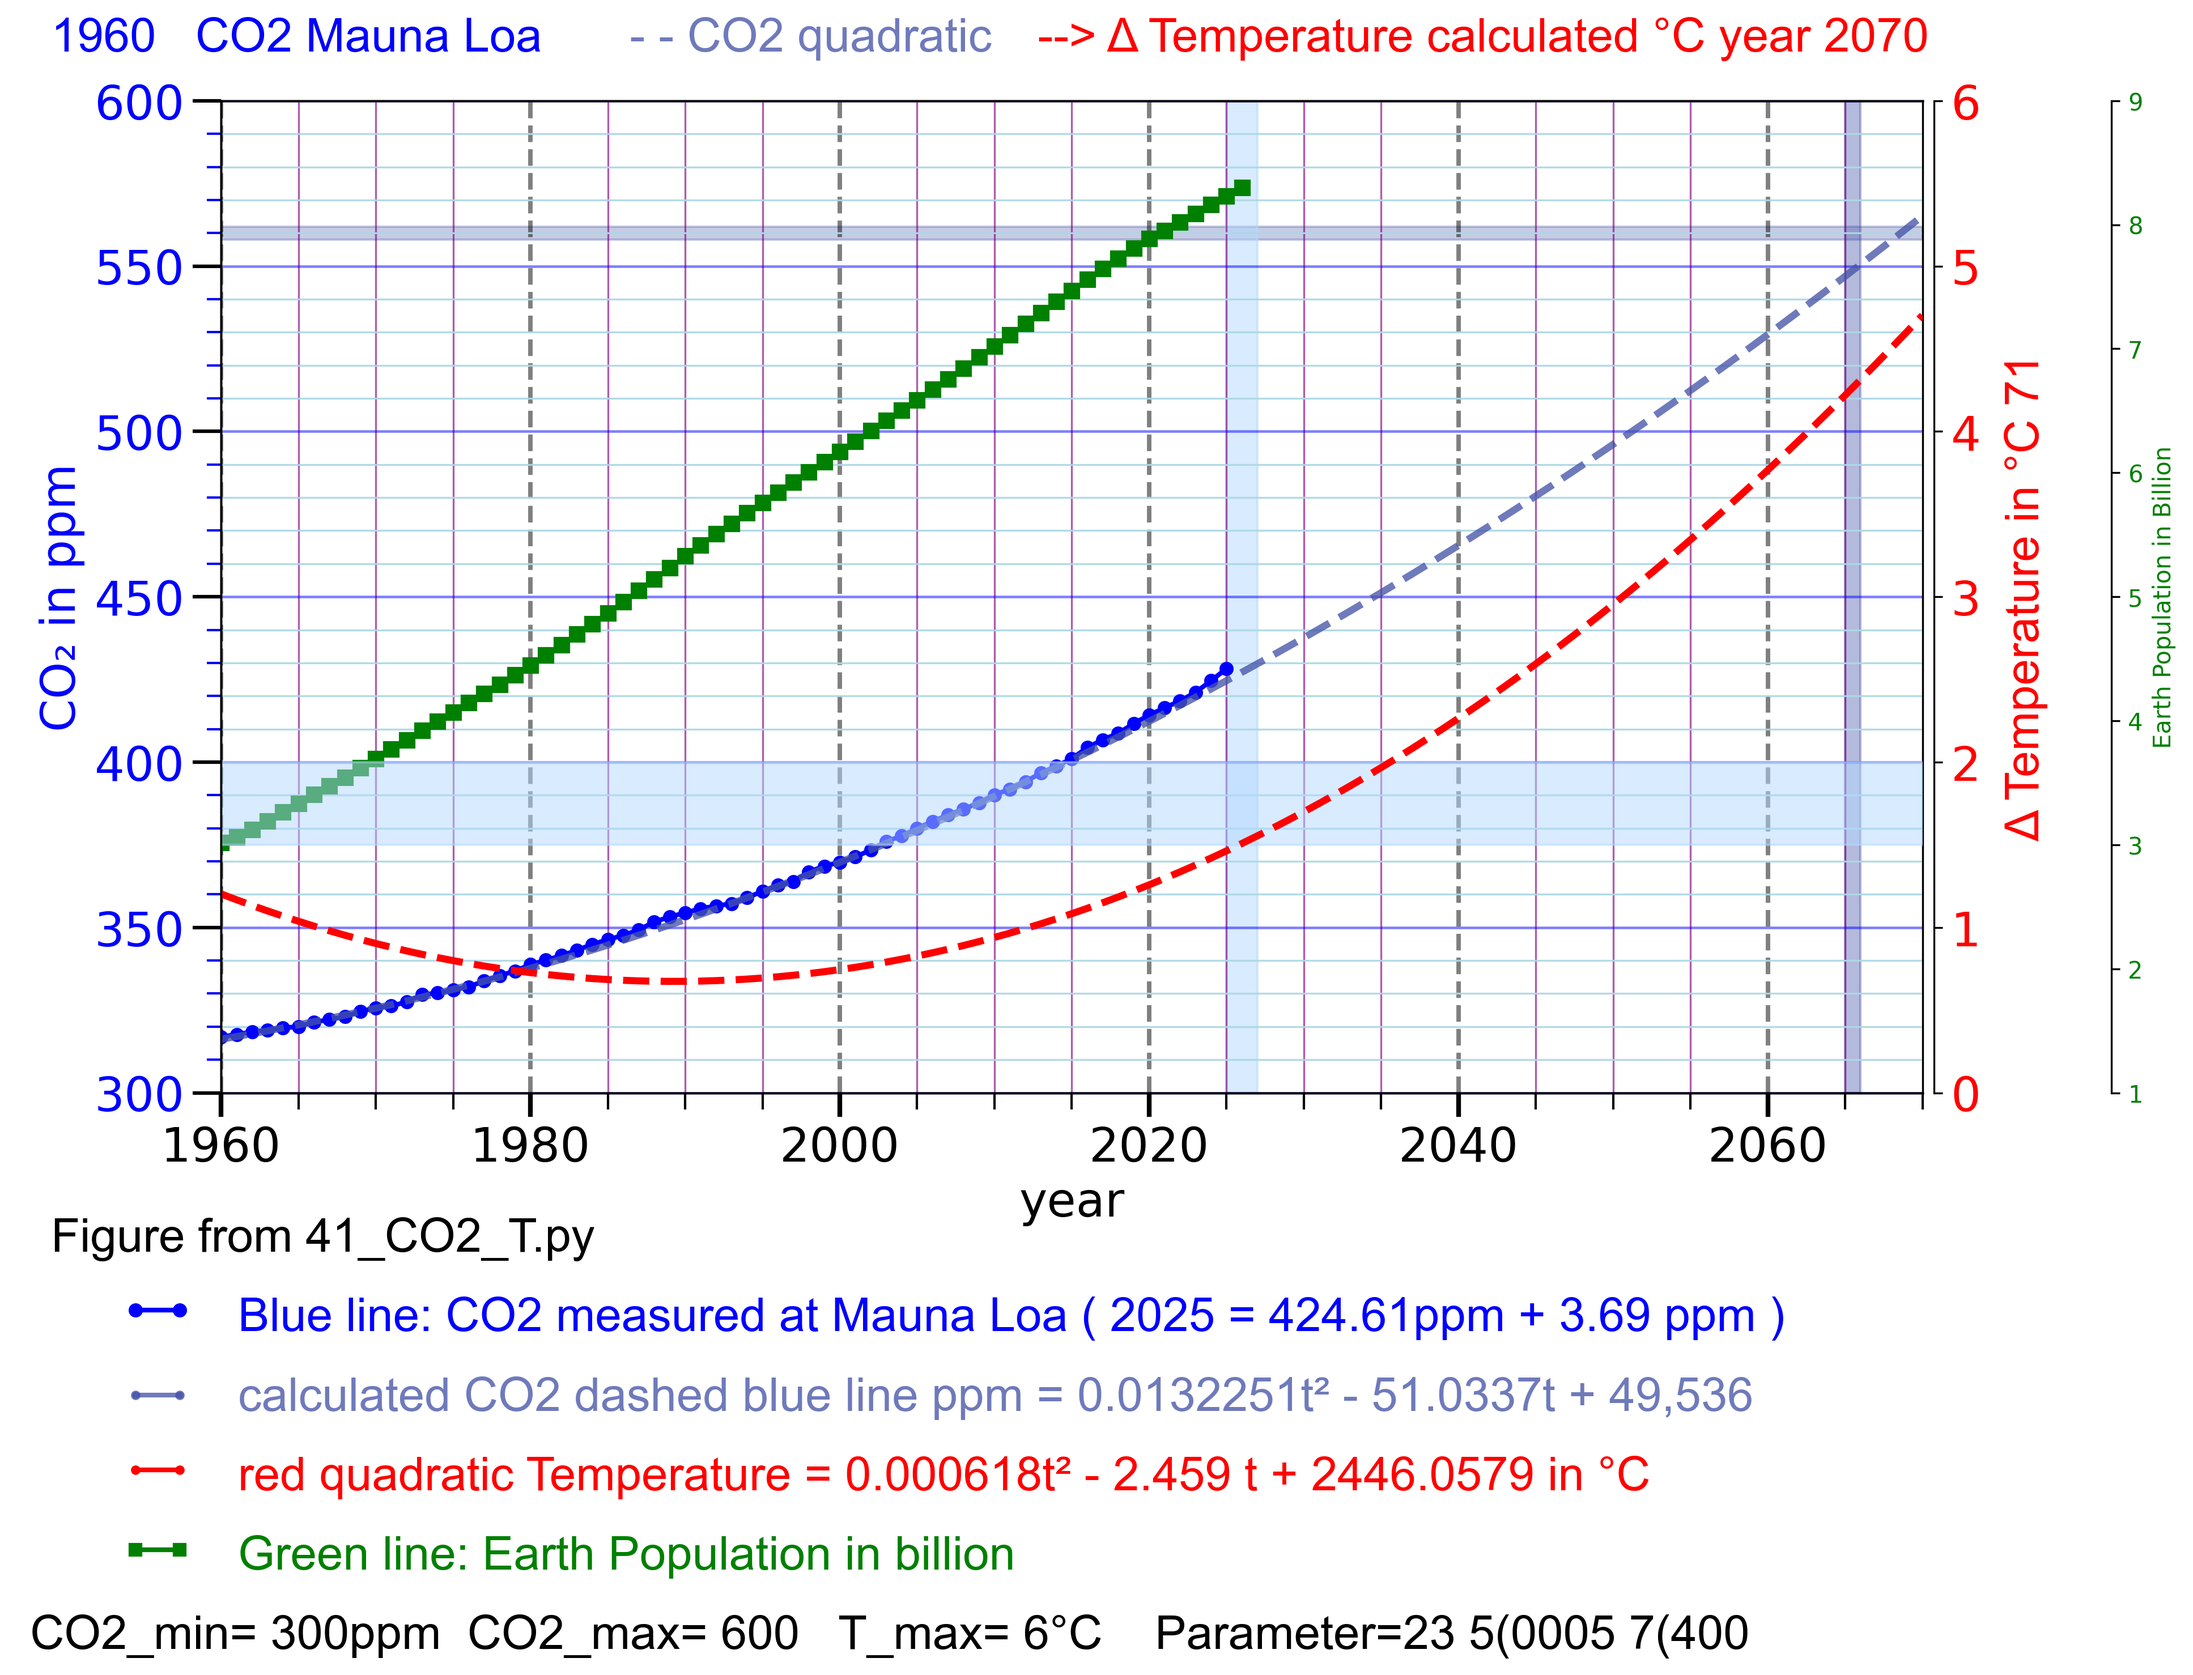
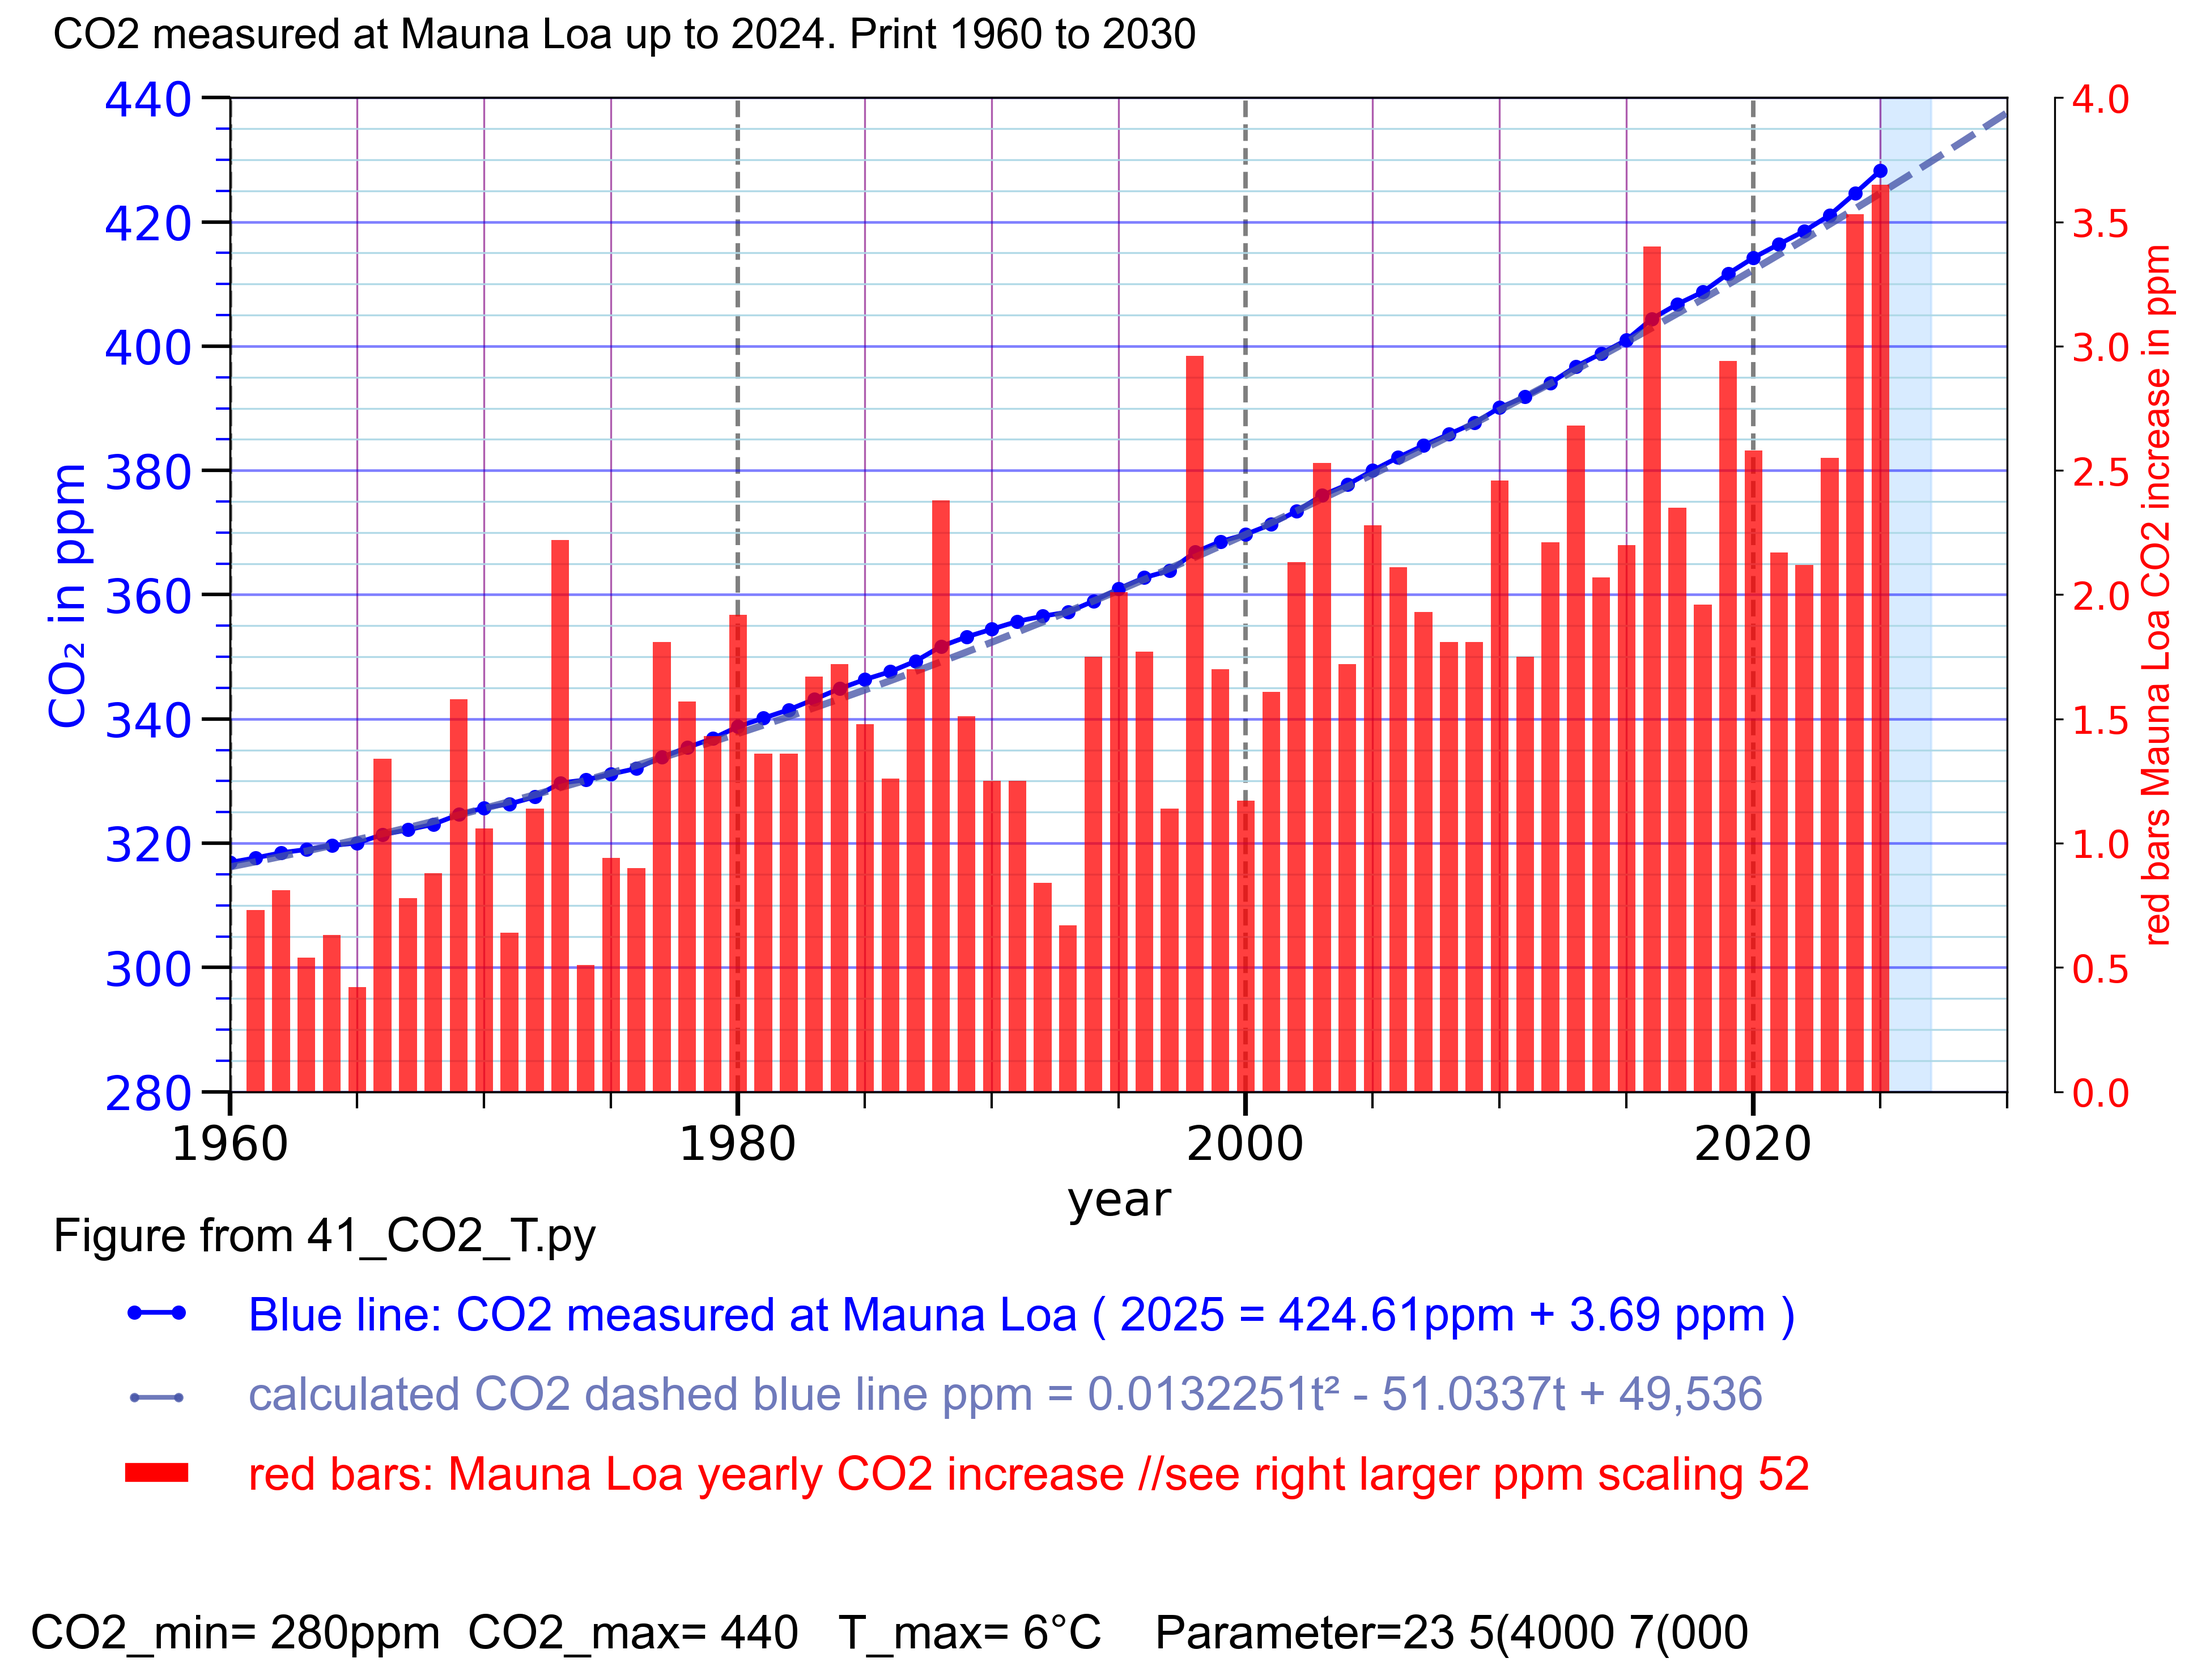
41w3_CO2_T.py work on 52

diff --git a/41_CO2_T.py b/41_CO2_T.py
@@ -1,4 +1,4 @@
-# 41w2_CO2_T.py 
+# 41w3_CO2_T.py work on 52
 # Thomas Boettcher
 # part 1 configure 
 # part 2 plot CO2 Mauna Loa
@@ -34,12 +34,12 @@ c1 = "blue" # plot1 color
 plot3_Glen_CO2 = 3 # 3 print in line 3, 0 keine Kurve Glen , 1 = 0.013t² - 51t + 49,536 in dark blue  
 c3 = "#4554A8C6"   # c3 = "#4B3FD1"
 # no part 4
-plot52_delta_CO2_red_bars = 0 # 3 4 0 7 8 keine delta_CO2 , 1 = delta_CO2 in rot , 7,8 mit Beschriftung   
+plot52_delta_CO2_red_bars = 4 # 3 4 0 7 8 keine delta_CO2 , 1 = delta_CO2 in rot , 7,8 mit Beschriftung   
 plot53_CO2_orange2025 = 0 # 3, 4, 0 orange Glen , 1 = 0.013t² - 51t + 49,536 in rot 3 works plot53_CO2_orange2025
 plot54_Glen_delta_on = 0 #  4, 0 print row 4 # green Glen diff print in line 4
-plot55_population_on = 5 # 4, 5 row 5 # 0=no print , 1 = population in green
+plot55_population_on = 0 # 4, 5 row 5 # 0=no print , 1 = population in green
 # no part 6
-plot71_temperature = 4 # 4,5, 0
+plot71_temperature = 0 # 4,5, 0
 plot72_AESS_T= 0       # 4,5,0 apparent Earth system sensitivity (AESS=7.7°C)
 plot73_ECS_T= 0       # 6,5 #  Earth Climate sensitivity (ECS=4.5°C)
 parameter84_save_png = 8 # save png
@@ -56,15 +56,15 @@ else:
 C280=280 # CO2 concentration 1750 275 ppm
 
 # 1.3.1 scale the left Y axis
-y_min = 300 # 300 # min value 280
-y_max = 600 # 1300 # min value 440 70
+y_min = 280 # 300 # min value 280
+y_max = 440 # 1300 # min value 440 70
 
 # 1.3.2 scale the right Y axis
 y_Tmin = 0 # min value °C
 y_Tmax = 6 # 4 # max value C
 
 x_anf = 1960 # 1960 2000 
-x_end = 2070 # 2200 2026 
+x_end = 2030 # 2200 2026 
 
 # 1.4.5 scale the text rows below the plot field
 tr1x = -0.09 # text row 1 x value -.3...1 -0.12
@@ -221,13 +221,6 @@ if plot52_delta_CO2_red_bars > 0:
    ax52 = ax1.twinx()  # twinx(): Shares the same x-axis Adds a new y-axis on the right
    ax52.spines.right.set_position(("outward", 20))
 # 5.2.5
-if plot52_delta_CO2_red_bars > 0:
-   bars = ax52.bar(df["Jahr"], df["Delta_CO2"], width=0.7, alpha=0.5, color="red")
-   ax52.bar(df["Jahr"], df["Delta_CO2"], width=0.7, alpha=0.5, color="red")
-   ax52.set_ylabel("red bars Mauna Loa CO2 increase in ppm", color="red", fontname="Arial",fontsize=16) # fontweight="bold"
-   ax52.tick_params(axis="y", labelcolor="red", labelsize=16)
-   ax52.set_ylim(-yr0, yr1) # scale y axis3 right red
-
 # 5.2.8 Add numbers on top of delta CO2 bars
 if plot52_delta_CO2_red_bars > 6:
    ax52.bar_label(bars, fontsize=8, fontname="Arial",padding=1, color="black")
@@ -468,6 +461,9 @@ elif y_max - y_min < 50:
 elif y_max - y_min < 101:
    y_mayor_ticks = 10
    y_minor_ticks = 2
+elif y_max - y_min < 201:
+   y_mayor_ticks = 20
+   y_minor_ticks = 5
 elif y_max - y_min < 500:
    y_mayor_ticks = 50
    y_minor_ticks = 10
@@ -563,6 +559,15 @@ elif plot73_ECS_T > 0:
          fontname="Arial",fontsize=20,
          labelpad=10   # smaller = closer to y axis
        )
+elif plot52_delta_CO2_red_bars > 0:
+   bars = ax52.bar(df["Jahr"], df["Delta_CO2"], width=0.7, alpha=0.5, color="red")
+   ax52.bar(df["Jahr"], df["Delta_CO2"], width=0.7, alpha=0.5, color="red")
+   ax52.set_ylabel("red bars Mauna Loa CO2 increase in ppm", color="red", fontname="Arial",fontsize=16) # fontweight="bold"
+   ax52.tick_params(axis="y", labelcolor="red", labelsize=16)
+   #ax52.set_ylim(-yr0, yr1) # scale y axis3 right red
+   ax52.set_ylim(0, 4) # scale y axis3 right red   
+
+
 # 8.5.9 
 if plot55_population_on > 0:
    ax55.spines.right.set_position(("outward", 80))
@@ -653,91 +658,94 @@ plt.text(tr2x, tr2y, blue2_text, color="blue", fontname="Arial", fontsize=trs,
 transform=plt.gca().transAxes)
 
 # 9.3 print line 3 below the plot explainations
-# 9.3.2 print line 3 plot55_population_on marker="s"
-if plot55_population_on == 3: #  legende world data plot1_CO2_Mauna_Loa
-   line1 = Line2D([lr2x1, lr2x2], [lr3y, lr3y], # x coords in figure space (0–1)
-   transform=fig.transFigure,
-   marker="s", markersize=5, color="green", linewidth=2)
-   # 9.5.2 draw bue line as legend
-   fig.add_artist(line1)
-   # 9.5.4 write green text
-   plt.text(tr2x, tr3y, green55_text, color="green", fontname="Arial", fontsize=trs,
-   transform=plt.gca().transAxes)
-# 9.3.3 print line 3 green Glen data below the figure marker="_", markersize=5, color="green", linewidth=8)
-elif plot52_delta_CO2_red_bars == 3 or plot52_delta_CO2_red_bars == 7:
-   line4 = Line2D([lr2x1, lr2x2], [lr3y, lr3y], # y from 0 to 1
-   transform=fig.transFigure,
-   marker="_", markersize=5, color="red", linewidth=8)
-   # 9.2.3 draw bue line as legend
-   fig.add_artist(line4)
-   # 9.2.4 write red text
-   text4="red bars: Mauna Loa yearly CO2 increase //see right larger ppm scaling"
-   # 9.2.5 plot the red text
-   plt.text(tr2x, tr3y, text4, color="red", fontname="Arial", fontsize=trs,
-   transform=plt.gca().transAxes)
-# 9.3.4 work_ print line 3 orange Glen data below the figure
-elif plot53_CO2_orange2025 == 3: # print in line 3 up to 2025
-   line3 = Line2D([lr2x1, lr2x2], [lr3y, lr3y], # y from 0 to 1
-   transform=fig.transFigure,
-   marker="o", markersize=3, color="orange", linewidth=2)
-   # 9.2.3 draw bue line as legend
-   fig.add_artist(line3)
-   # 9.2.4 write blue text
-   red53_text="Orange dashed line: Glen parabol formula ppm = 0.0132251t² - 51.0337t + 49,536"
-   # 9.2.5 plot the blue text
-   plt.text(tr2x, tr3y, red53_text, color="orange", fontname="Arial", fontsize=trs,
-   transform=plt.gca().transAxes)
-   # 9.3.5 print line 4 green Glen data below the figure marker="_", markersize=5, color="green", linewidth=8)
-# 9.3.5  print line 3 green Glen 
-elif plot54_Glen_delta_on == 3: # print in line4
-   line4 = Line2D([lr2x1, lr2x2], [lr3y, lr3y], # y from 0 to 1 lr3y
-   transform=fig.transFigure,
-   marker="_", markersize=5, color="green", linewidth=8)
-   # 9.3.5 draw bue line as legend
-   fig.add_artist(line4)
-   # 9.3.5 write blue text
-   green_text="Green bars: Difference Mauna Loa - Glen quadratic t² //see right larger ppm scaling"
-   # 9.3.5 plot the green text
-   plt.text(tr2x, tr3y, green_text, color="green", fontname="Arial", fontsize=trs,
-   transform=plt.gca().transAxes)
-   # 9.3.6_ print line 3 red Glen data below the figure
-# 9.3.6  print line 6 red Glen 
+# 9.3.3  print line red Glen 
 if plot3_Glen_CO2 == 3: # print in line 3
    line6 = Line2D([lr2x1, lr2x2], [lr3y, lr3y], # y from 0 to 1
    transform=fig.transFigure,
    marker="o", markersize=3, color=c3, linewidth=2)
-   # 9.2.3 draw bue line as legend
+   # 9.3.3 draw bue line as legend
    fig.add_artist(line6)
-   # 9.2.4 write blue text
+   # 9.3.3 write blue text
    plt.text(tr2x, tr3y, text_plot3_Glen, color=c3, fontname="Arial", fontsize=trs,
+   transform=plt.gca().transAxes)
+# 9.3.4 print line 3 green Glen data below the figure marker="_", markersize=5, color="green", linewidth=8)
+elif plot52_delta_CO2_red_bars == 3 or plot52_delta_CO2_red_bars == 7:
+   line4 = Line2D([lr2x1, lr2x2], [lr3y, lr3y], # y from 0 to 1
+   transform=fig.transFigure,
+   marker="_", markersize=5, color="red", linewidth=8)
+   # 9.3.4 draw bue line as legend
+   fig.add_artist(line4)
+   # 9.3.4 write red text
+   text4="red bars: Mauna Loa yearly CO2 increase //see right larger ppm scaling"
+   # 9.3.4 plot the red text
+   plt.text(tr2x, tr3y, text4, color="red", fontname="Arial", fontsize=trs,
+   transform=plt.gca().transAxes)
+# 9.3.5 print line 3 orange Glen data below the figure
+elif plot53_CO2_orange2025 == 3: # print in line 3 up to 2025
+   line3 = Line2D([lr2x1, lr2x2], [lr3y, lr3y], # y from 0 to 1
+   transform=fig.transFigure,
+   marker="o", markersize=3, color="orange", linewidth=2)
+   # 9.3.5 draw bue line as legend
+   fig.add_artist(line3)
+   # 9.3.5 write blue text
+   red53_text="Orange dashed line: Glen parabol formula ppm = 0.0132251t² - 51.0337t + 49,536"
+   # 9.3.5 plot the blue text
+   plt.text(tr2x, tr3y, red53_text, color="orange", fontname="Arial", fontsize=trs,
+   transform=plt.gca().transAxes)
+   # 9.3.5 print line 4 green Glen data below the figure marker="_", markersize=5, color="green", linewidth=8)
+# 9.3.6  print line 3 green Glen 
+elif plot54_Glen_delta_on == 3: # print in line4
+   line4 = Line2D([lr2x1, lr2x2], [lr3y, lr3y], # y from 0 to 1 lr3y
+   transform=fig.transFigure,
+   marker="_", markersize=5, color="green", linewidth=8)
+   # 9.3.6 draw bue line as legend
+   fig.add_artist(line4)
+   # 9.3.6 write blue text
+   green_text="Green bars: Difference Mauna Loa - Glen quadratic t² //see right larger ppm scaling"
+   # 9.3.6 plot the green text
+   plt.text(tr2x, tr3y, green_text, color="green", fontname="Arial", fontsize=trs,
+   transform=plt.gca().transAxes)
+   # 9.3.6_ print line 3 red Glen data below the figure
+# 9.3.7 print line 3 plot55_population_on marker="s"
+elif plot55_population_on == 3: #  legende world data plot1_CO2_Mauna_Loa
+   line1 = Line2D([lr2x1, lr2x2], [lr3y, lr3y], # x coords in figure space (0–1)
+   transform=fig.transFigure,
+   marker="s", markersize=5, color="green", linewidth=2)
+   # 9.3.7 draw bue line as legend
+   fig.add_artist(line1)
+   # 9.3.7 write green text
+   plt.text(tr2x, tr3y, green55_text, color="green", fontname="Arial", fontsize=trs,
    transform=plt.gca().transAxes)
    # 9.3 end print line 3 below the plot explainations
 
 
 # 9.4 print line 4 below the plot explainations
 # 9.4 print line 4 below the plot explainations
-# 9.4.2 print line 4 plot55_population_on marker="s"
-if plot55_population_on == 4:
-   line1 = Line2D([lr2x1, lr2x2], [lr4y, lr4y],
+# 9.4.3_ print line 3 red Glen data below the figure
+if plot3_Glen_CO2 == 4: # print in line 3
+   line4 = Line2D([lr2x1, lr2x2], [lr4y, lr4y], # y from 0 to 1
    transform=fig.transFigure,
-   marker="s", markersize=5, color="green", linewidth=2)
-   fig.add_artist(line1)
-   plt.text(tr2x, tr4y, green55_text, color="green", fontname="Arial", fontsize=trs,
+   marker="o", markersize=3, color=c3, linewidth=2)
+   # 9.4.3 draw bue line as legend
+   fig.add_artist(line4)
+   # 9.4.3 write blue text
+   text_plot3_Glen=" dashed line: Glen parabol formula ppm = 0.0132251t² - 51.0337t + 49,536"
+   # 9.4.3 plot the blue text
+   plt.text(tr2x, tr4y, text_plot3_Glen, color=c3, fontname="Arial", fontsize=trs,
    transform=plt.gca().transAxes)
-   # 9.4.52 print line 4 green Glen data below the figure marker="_", markersize=5, color="green", linewidth=8)
-if plot52_delta_CO2_red_bars == 4 or plot52_delta_CO2_red_bars == 8:
+elif plot52_delta_CO2_red_bars == 4 or plot52_delta_CO2_red_bars == 8:
    line4 = Line2D([lr2x1, lr2x2], [lr4y, lr4y], # y from 0 to 1
    transform=fig.transFigure,
    marker="_", markersize=5, color="red", linewidth=8)
    # 9.2.3 draw bue line as legend
    fig.add_artist(line4)
    # 9.2.4 write blue text
-   text4="red bars: Mauna Loa yearly CO2 increase //see right larger ppm scaling"
+   text4="red bars: Mauna Loa yearly CO2 increase //see right larger ppm scaling 52"
    # 9.2.5 plot the blue text
    plt.text(tr2x, tr4y, text4, color="red", fontname="Arial", fontsize=trs,
    transform=plt.gca().transAxes)
 # 9.4.4 work_ print line 4 orange Glen data below the figure
-if plot53_CO2_orange2025 == 4: # print in line 3 up to 2025
+elif plot53_CO2_orange2025 == 4: # print in line 3 up to 2025
    line4 = Line2D([lr2x1, lr2x2], [lr4y, lr4y], # y from 0 to 1
    transform=fig.transFigure,
    marker="o", markersize=3, color="orange", linewidth=2)
@@ -760,18 +768,15 @@ elif plot54_Glen_delta_on == 4: # print in line4
    # 9.2.5 plot the blue text
    plt.text(tr2x, tr4y, green_text, color="green", fontname="Arial", fontsize=trs,
    transform=plt.gca().transAxes)
-# 9.4.6_ print line 3 red Glen data below the figure
-elif plot3_Glen_CO2 == 4: # print in line 3
-   line4 = Line2D([lr2x1, lr2x2], [lr4y, lr4y], # y from 0 to 1
+   # 9.4.2 print line 4 plot55_population_on marker="s"
+elif plot55_population_on == 4:
+   line1 = Line2D([lr2x1, lr2x2], [lr4y, lr4y],
    transform=fig.transFigure,
-   marker="o", markersize=3, color=c3, linewidth=2)
-   # 9.2.3 draw bue line as legend
-   fig.add_artist(line4)
-   # 9.2.4 write blue text
-   text_plot3_Glen=" dashed line: Glen parabol formula ppm = 0.0132251t² - 51.0337t + 49,536"
-   # 9.2.5 plot the blue text
-   plt.text(tr2x, tr4y, text_plot3_Glen, color=c3, fontname="Arial", fontsize=trs,
+   marker="s", markersize=5, color="green", linewidth=2)
+   fig.add_artist(line1)
+   plt.text(tr2x, tr4y, green55_text, color="green", fontname="Arial", fontsize=trs,
    transform=plt.gca().transAxes)
+   # 9.4.52 print line 4 green Glen data below the figure marker="_", markersize=5, color="green", linewidth=8)
 elif plot71_temperature == 4:
    line7 = Line2D([lr2x1, lr2x2], [lr4y, lr4y], # y from 0 to 1
    transform=fig.transFigure,
